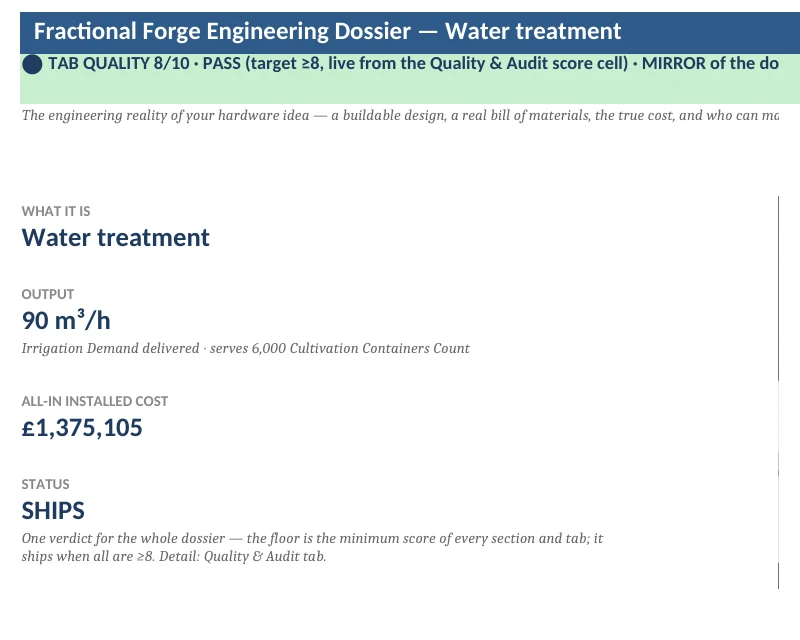
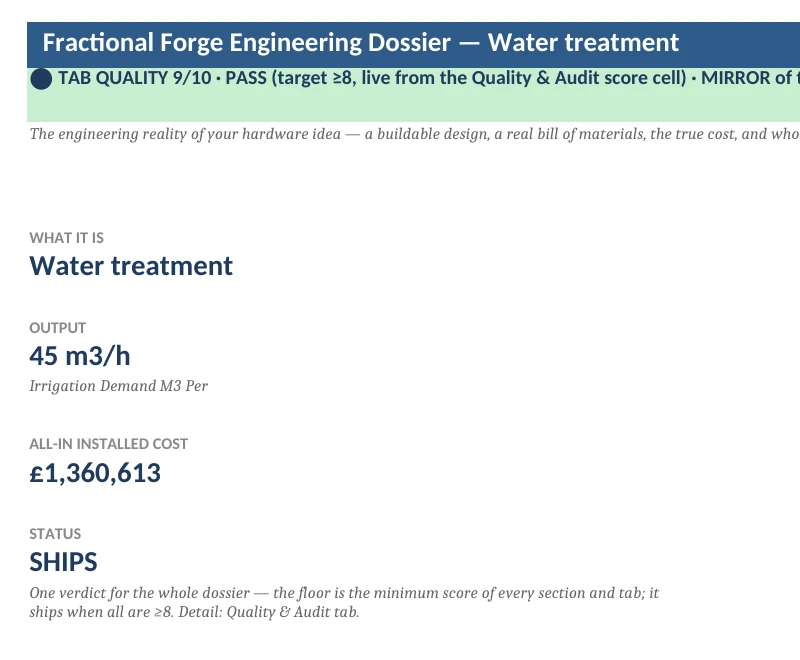
content: swap to the 9/10 CERTIFIED workbook (v79) + update all figures
Tristan supplied a new 9-of-10 certified dossier. Sanitised it (stripped Codema/
HORTI/Farm 2/offer-no/fischer-codema run name; ForgeOS->Fractional Forge; kept
Tristan Fischer + the model), uploaded it as the downloadable example, and
regenerated the Executive Summary screenshot (now TAB QUALITY 9/10, 45 m³/h,
£1,360,613). Updated site figures: total ~£1.36M; purification £175k, controls
£239k, tanks £77k, process/dosing/distribution ~£870k (cost page, insights card,
llms.txt).

Changed region(s): [[0.0, 0.0, 1.0, 0.2188], [0.0312, 0.3125, 0.8438, 0.9375], [0.5312, 0.8125, 0.75, 0.8438]]

diff --git a/src/app/cost/water-treatment-plant/page.tsx b/src/app/cost/water-treatment-plant/page.tsx
@@ -24,7 +24,7 @@ const EXAMPLE_XLSX =
 export const metadata: Metadata = {
   title: "What does an industrial water-treatment plant cost to build?",
   description:
-    "A worked cost breakdown for an industrial water-handling, purification and fertigation plant — around £1.38M installed. Every number from a real, engineer-checked Design Dossier you can download and check.",
+    "A worked cost breakdown for an industrial water-handling, purification and fertigation plant — around £1.36M installed. Every number from a real, engineer-checked Design Dossier you can download and check.",
   alternates: { canonical: "https://fractionalforge.app/cost/water-treatment-plant" },
 }
 
@@ -32,29 +32,29 @@ const SECTIONS = [
   {
     name: "Water purification",
     covers: "Reverse osmosis, ultrafiltration, granular-activated-carbon and softening trains",
-    cost: "£199,000",
+    cost: "£175,000",
   },
   {
     name: "Controls & instrumentation",
     covers: "SCADA / process-control system plus plant-wide field instrumentation and cabling",
-    cost: "£206,000",
+    cost: "£239,000",
   },
   {
     name: "Storage & tanks",
     covers: "Galvanised process and buffer tanks with level instrumentation",
-    cost: "£74,000",
+    cost: "£77,000",
   },
   {
     name: "Process equipment, dosing & distribution",
     covers: "Fertigation dosing, flood-and-drain (ebb/flow) distribution, pumps, pipework, drain-water recovery and the hand-watering ring main",
-    cost: "≈ £900,000",
+    cost: "≈ £870,000",
   },
 ]
 
 const FAQ = [
   {
     q: "How much does an industrial water-treatment plant cost to build?",
-    a: "For this worked example — a water-handling, purification and fertigation plant supplying a large indoor cultivation facility — the installed cost is around £1.38 million. The single biggest cost centres are the controls and instrumentation (~£206k) and the purification train (~£199k). Your figure depends on flow rate, water quality, the treatment steps you need and how much of the plant is duplicated for resilience.",
+    a: "For this worked example — a water-handling, purification and fertigation plant supplying a large indoor cultivation facility — the installed cost is around £1.36 million. The single biggest cost centres are the controls and instrumentation (~£239k) and the purification train (~£175k). Your figure depends on flow rate, water quality, the treatment steps you need and how much of the plant is duplicated for resilience.",
   },
   {
     q: "What's included in that number?",
@@ -78,7 +78,7 @@ export default function WaterTreatmentCostPage() {
         "@type": "Article",
         headline: "What does an industrial water-treatment plant cost to build?",
         description:
-          "A worked cost breakdown for an industrial water-handling, purification and fertigation plant — around £1.38M installed — from a real, engineer-checked Design Dossier.",
+          "A worked cost breakdown for an industrial water-handling, purification and fertigation plant — around £1.36M installed — from a real, engineer-checked Design Dossier.",
         author: { "@id": "https://fractionalforge.app/#tristan-fischer" },
         publisher: { "@id": "https://fractionalforge.app/#organization" },
         mainEntityOfPage: "https://fractionalforge.app/cost/water-treatment-plant",
@@ -119,7 +119,7 @@ export default function WaterTreatmentCostPage() {
             </p>
             <div className="flex flex-wrap items-baseline gap-3 pt-2">
               <span className="text-4xl sm:text-5xl font-bold text-international-orange tabular-nums">
-                ≈ £1.38M
+                ≈ £1.36M
               </span>
               <span className="text-muted-foreground">installed, for this example plant</span>
             </div>
@@ -143,7 +143,7 @@ export default function WaterTreatmentCostPage() {
               {/* eslint-disable-next-line @next/next/no-img-element */}
               <img
                 src="/images/site/dossier-exec.webp"
-                alt="The Design Dossier's Executive Summary tab — 90 cubic metres per hour, £1,375,105 installed, ship verdict"
+                alt="The Design Dossier's Executive Summary tab — 45 cubic metres per hour, £1,360,613 installed, ship verdict"
                 className="w-full rounded-xl border border-border shadow-sm bg-white"
                 loading="lazy"
               />
@@ -180,7 +180,7 @@ export default function WaterTreatmentCostPage() {
                   <div className="flex items-center gap-4 px-5 py-4 bg-muted/40">
                     <p className="flex-1 font-bold text-foreground">Total installed</p>
                     <p className="font-bold text-international-orange tabular-nums text-lg">
-                      ≈ £1.38M
+                      ≈ £1.36M
                     </p>
                   </div>
                 </div>

diff --git a/src/app/insights/page.tsx b/src/app/insights/page.tsx
@@ -212,7 +212,7 @@ export default function InsightsPage() {
                 { href: "/guides/how-to-cost-a-hardware-bill-of-materials", img: "/images/insights/guide-how-to-cost-a-hardware-bill-of-materials.webp", title: "How to cost a hardware bill of materials", hook: "Unit vs volume pricing, and the costs founders always miss." },
                 { href: "/guides/how-to-get-a-hardware-startup-investor-ready", img: "/images/insights/guide-how-to-get-a-hardware-startup-investor-ready.webp", title: "How to get a hardware startup investor-ready", hook: "What hardware investors actually check — and why they pass." },
                 { href: "/guides/design-for-manufacture-explained", img: "/images/insights/guide-design-for-manufacture-explained.webp", title: "Design for manufacture, explained", hook: "What DFM is, why it matters early, and how it saves cost." },
-                { href: "/cost/water-treatment-plant", img: "/images/site/dossier-render.webp", title: "What an industrial water-treatment plant costs to build", hook: "A worked £1.38M breakdown from a real, auditable model." },
+                { href: "/cost/water-treatment-plant", img: "/images/site/dossier-render.webp", title: "What an industrial water-treatment plant costs to build", hook: "A worked £1.36M breakdown from a real, auditable model." },
               ].map((g) => (
                 <Link key={g.href} href={g.href} className="group">
                   <Card className="h-full overflow-hidden transition-colors hover:border-international-orange/40">
